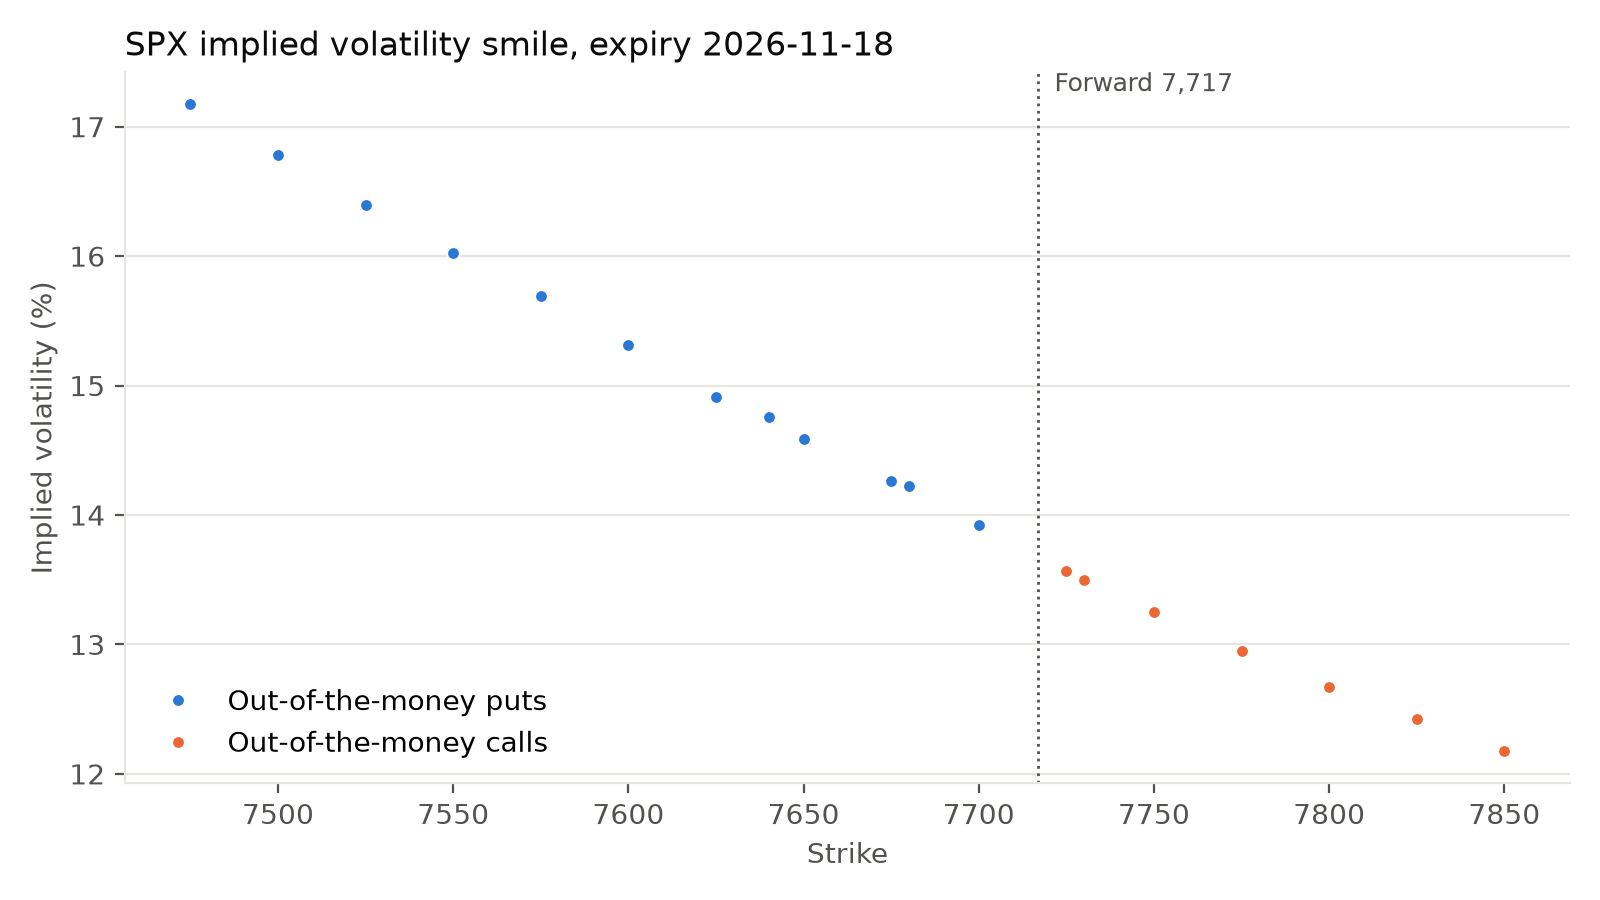
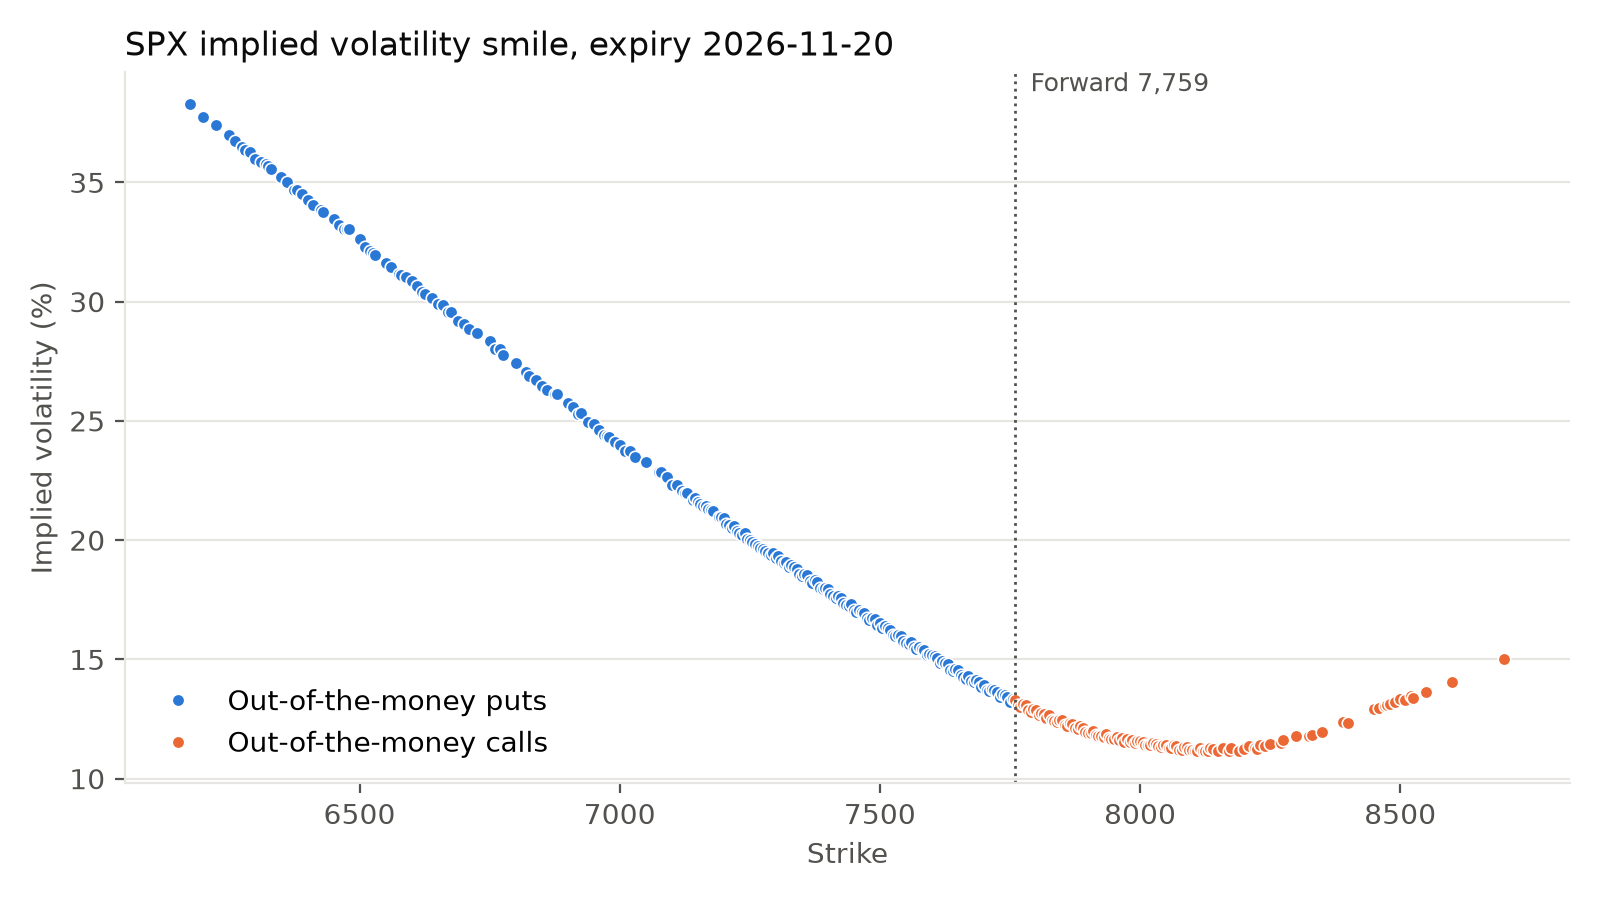
Tidy README

diff --git a/scripts/vol_smile.py b/scripts/vol_smile.py
@@ -14,7 +14,7 @@ import yfinance as yf
 
 sys.path.insert(0, os.path.abspath(os.path.join(os.path.dirname(__file__), "..")))
 
-from option_pricer.smile import build_smile, implied_forward  # noqa: E402
+from option_pricer.smile import build_smile, implied_forward
 
 MIN_DAYS = 30            # use the first expiry at least this far away
 MONEYNESS = (0.8, 1.2)   # keep strikes between 80% and 120% of spot

diff --git a/README.md b/README.md
@@ -1,71 +1,3 @@
-
-![tests](https://github.com/Kbrown176/option-pricer/actions/workflows/tests.yml/badge.svg)
-
-
-
-
- 
- 
-
-
-
-
-
-
-
-
-
-
-
-
-
-
-
-
-
-
-
-
-
-
-
-
-
-
-
-
-
-
-
-
-
-
-
-
-
-
-
-
-
-
-
-
-
-
-
-
-
-
-
-
-
-
-
-
-
-
-
-Readme · MD
 # Option Pricer
  
 A Python library for pricing options three independent ways (closed-form Black-Scholes, Cox-Ross-Rubinstein binomial trees and Monte Carlo simulation), with analytical Greeks and an implied volatility solver applied to live S&P 500 option data.
